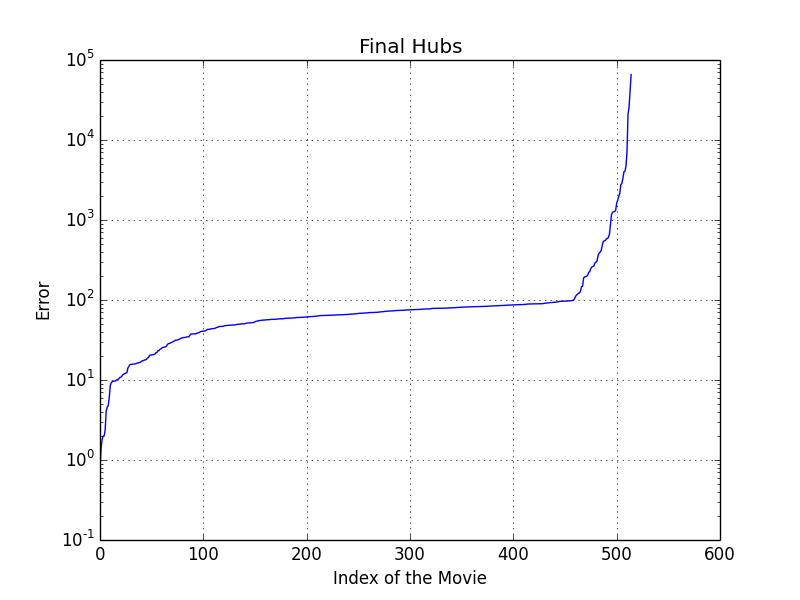
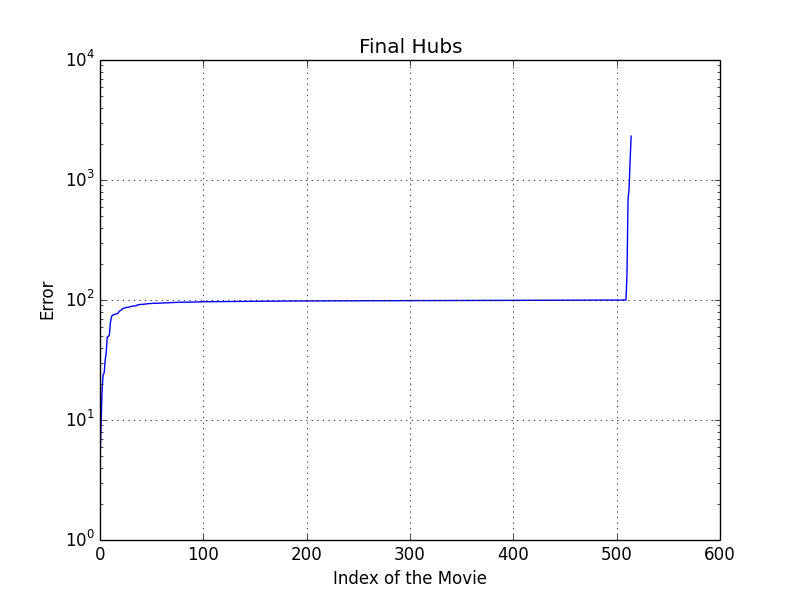
taking average

diff --git a/hits.py b/hits.py
@@ -229,7 +229,7 @@ def calculate_predict(data,bad_k,good_k,bad_m,good_m):
             except Exception, e:
                 # print e
                 t_sum = t_sum
-        pred_score = t_sum*float(movie['Budget'])
+        pred_score = (t_sum/contributor_count)*float(movie['Budget'])
         if pred_score<good_k:
             pred_rev = bad_k*pred_score
         else:
@@ -285,7 +285,7 @@ if __name__ == "__main__":
     # draw_plot_given_x_y_list(base_errors,'Index of the Movie','Error','base','Base Hubs')
     draw_plot_given_x_y_list(final_errors,'Index of the Movie','Error','final','Final Hubs')
 
-    save_scores_to_db(final_hub_score,final_result)
+    # save_scores_to_db(final_hub_score,final_result)
 
 
 
